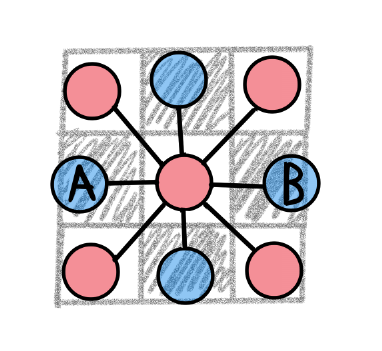
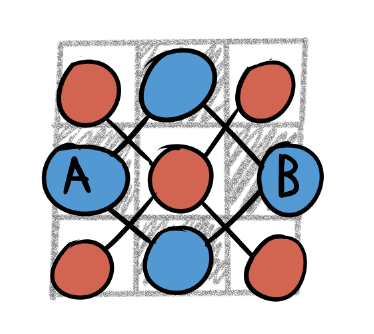
added to checkerboard post

diff --git a/content/posts/2020-09-17-checker-board-movement.md b/content/posts/2020-09-17-checker-board-movement.md
@@ -1,7 +1,7 @@
 ---
-title: "Checkerboard Moves"
+title: "Checkerboard Moves and Bipartite Graphs"
 date: 2020-09-17T02:59:12-04:00
-draft: true
+draft: false 
 ---
 
 I was wondering the other day, if you were on a checkerboard, what would be your smallest move?
@@ -19,7 +19,7 @@ Now what if you could only move to black squares? You lose half of your possible
 ![](/images/checkerboard_4.png)
 
 # Moving Beyond the Neighborhood
-This move restriction becomes interesting outside of the neighborhood. Previously, without color restriction, movement from one square to any other would result in a straight path.
+This move restriction becomes interesting outside of the neighborhood. Previously, without color restriction, movement from one square to any other of the same color (by choice, not restriction) would result in a straight path.
 
 ![](/images/checkerboard_5.png)
 
@@ -30,7 +30,7 @@ If we can only move to black squares, this path looks different:
 This forces us into a Taxicab geometry; we are on a plane where the shortest distance between two points is no longer a straight line (euclidean distance) but an "L".
 
 # Shortest (Permitted) Moves
-Under color restrictions, the amount of your shortest possible moves __within your neighborhood__ has been reduced by half. However, the amount of shortest possible moves to __permitted squares__ (black squares) remains the same, but half of these moves leave the neighborhood.
+Under color restrictions, the amount of your shortest possible moves __within your neighborhood__ has been reduced by half. However, the amount of shortest possible moves to __nearest permitted squares__ (black squares) remains the same, but half of these moves leave the original neighborhood.
 
 ![](/images/checkerboard_7.png)
 
@@ -44,6 +44,22 @@ With color restriction, you no longer have a single shortest path, but 2, and th
 
 ![](/images/checkerboard_9.png)
 
-This can be represented with a bipartite star graph:
+This can be represented with a bipartite (2-color) graph:
 
 ![](/images/checkerboard_10.png)
+
+Your shortest path will contain either 1 or 2 nodes to get to the next (nearest) node of a like color. There will also be either one path or two.
+
+![](/images/checkerboard_11.png)
+
+You could make a larger graph, which looks like a grid, but really isn't...
+
+![](/images/checkerboard_12.png)
+
+It would have some interesting circuits:
+
+![](/images/checkerboard_13.png)
+
+And travel would be interesting, as well...
+
+![](/images/checkerboard_14.png)
